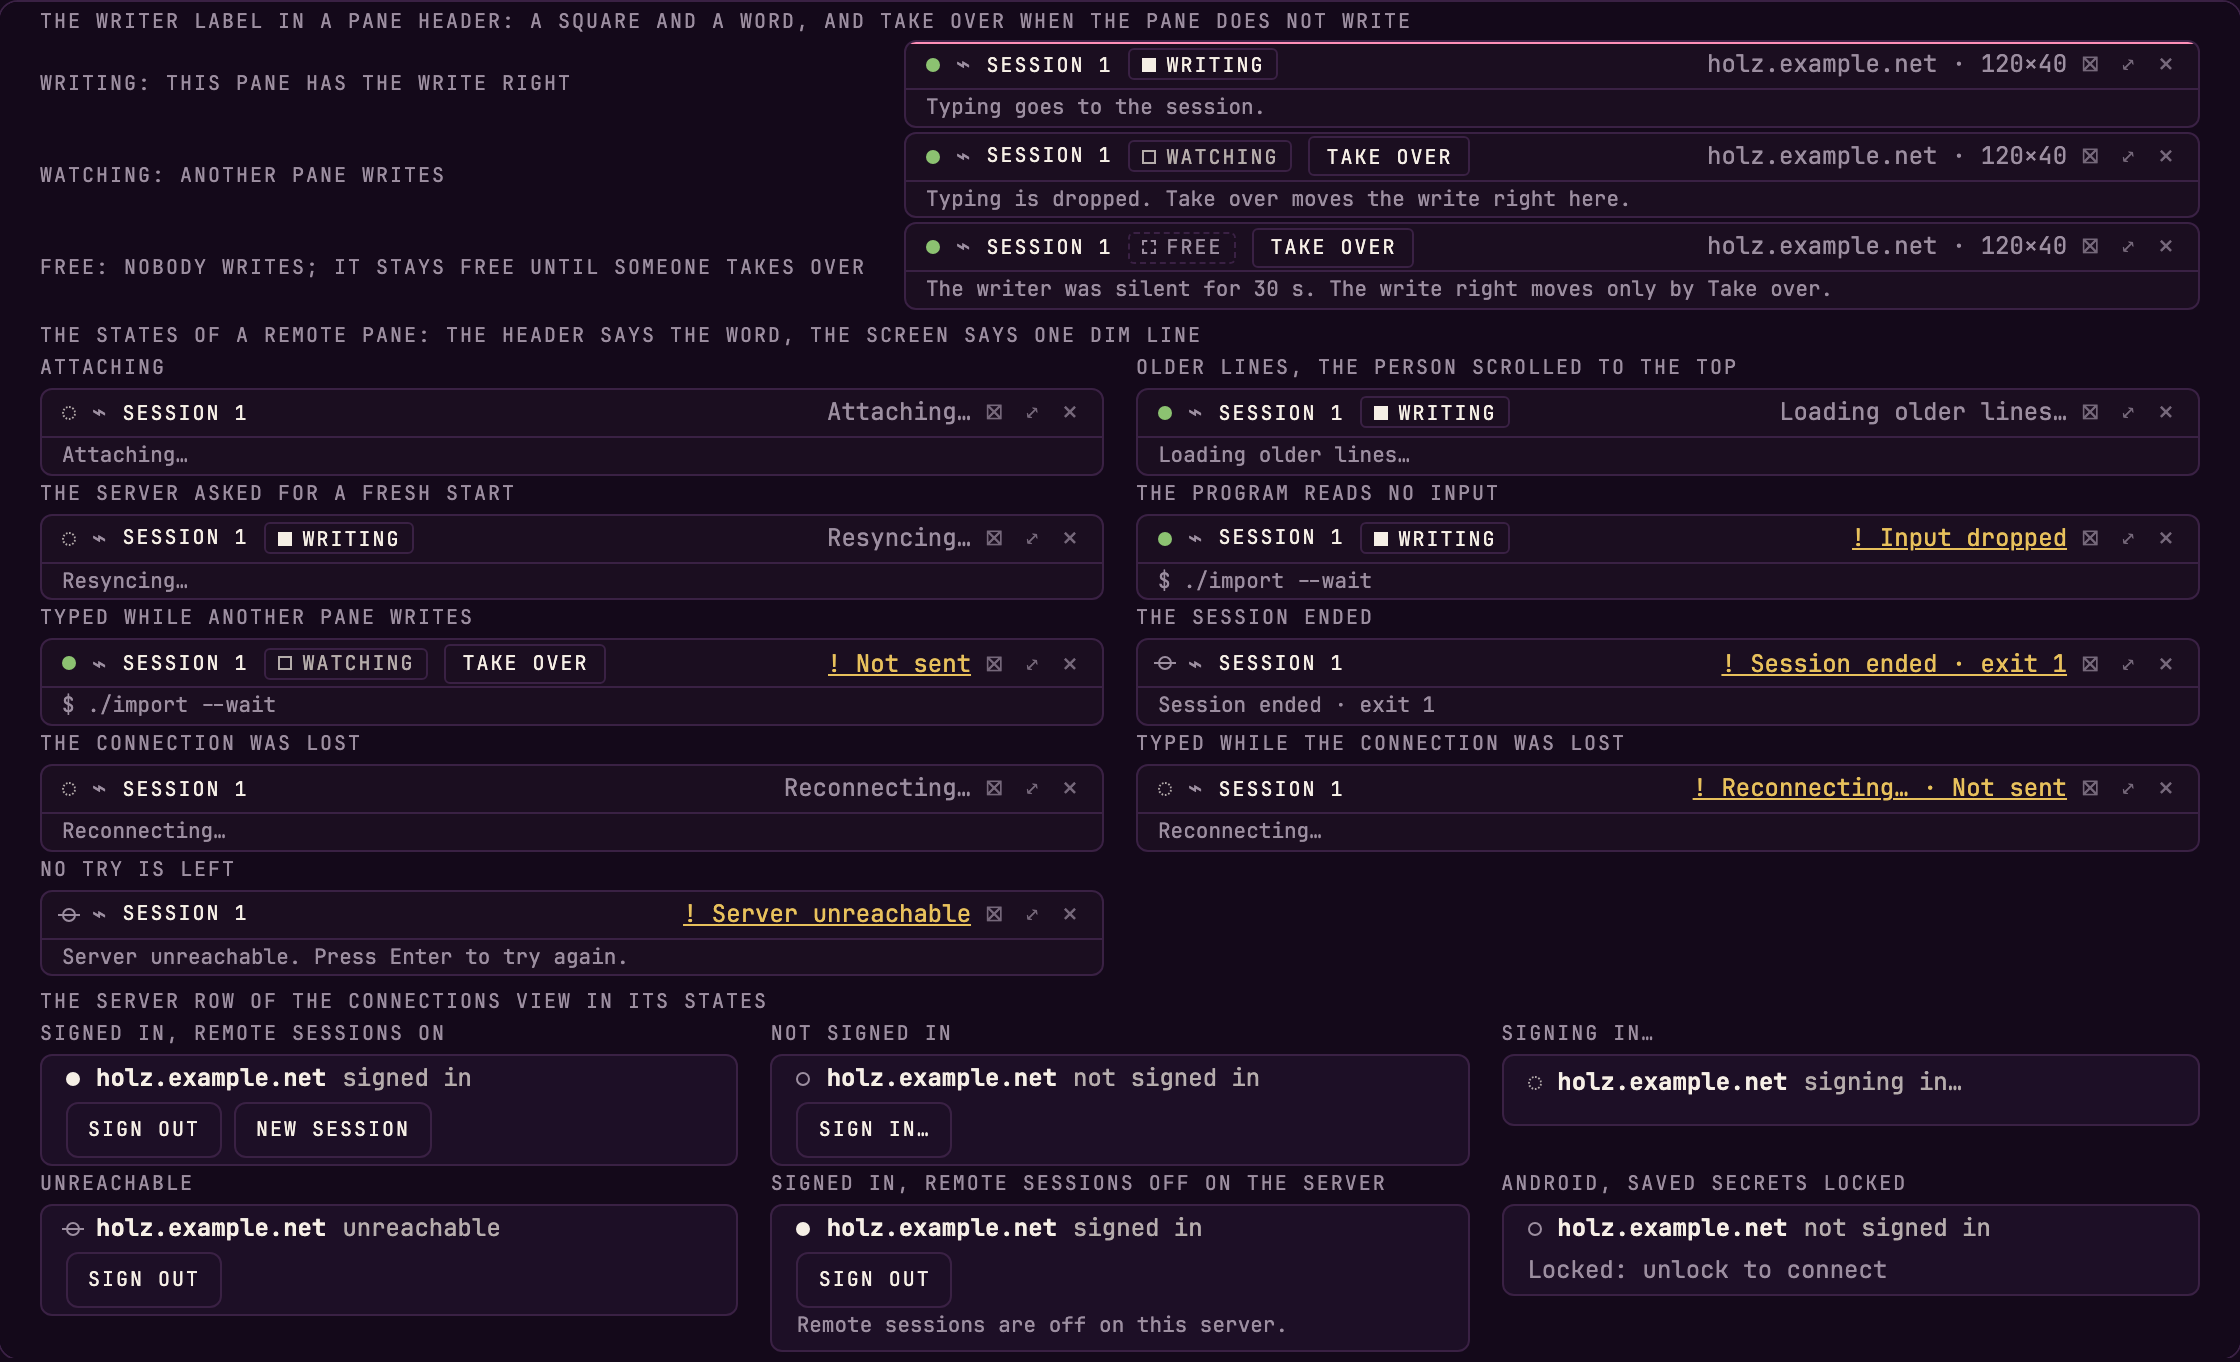
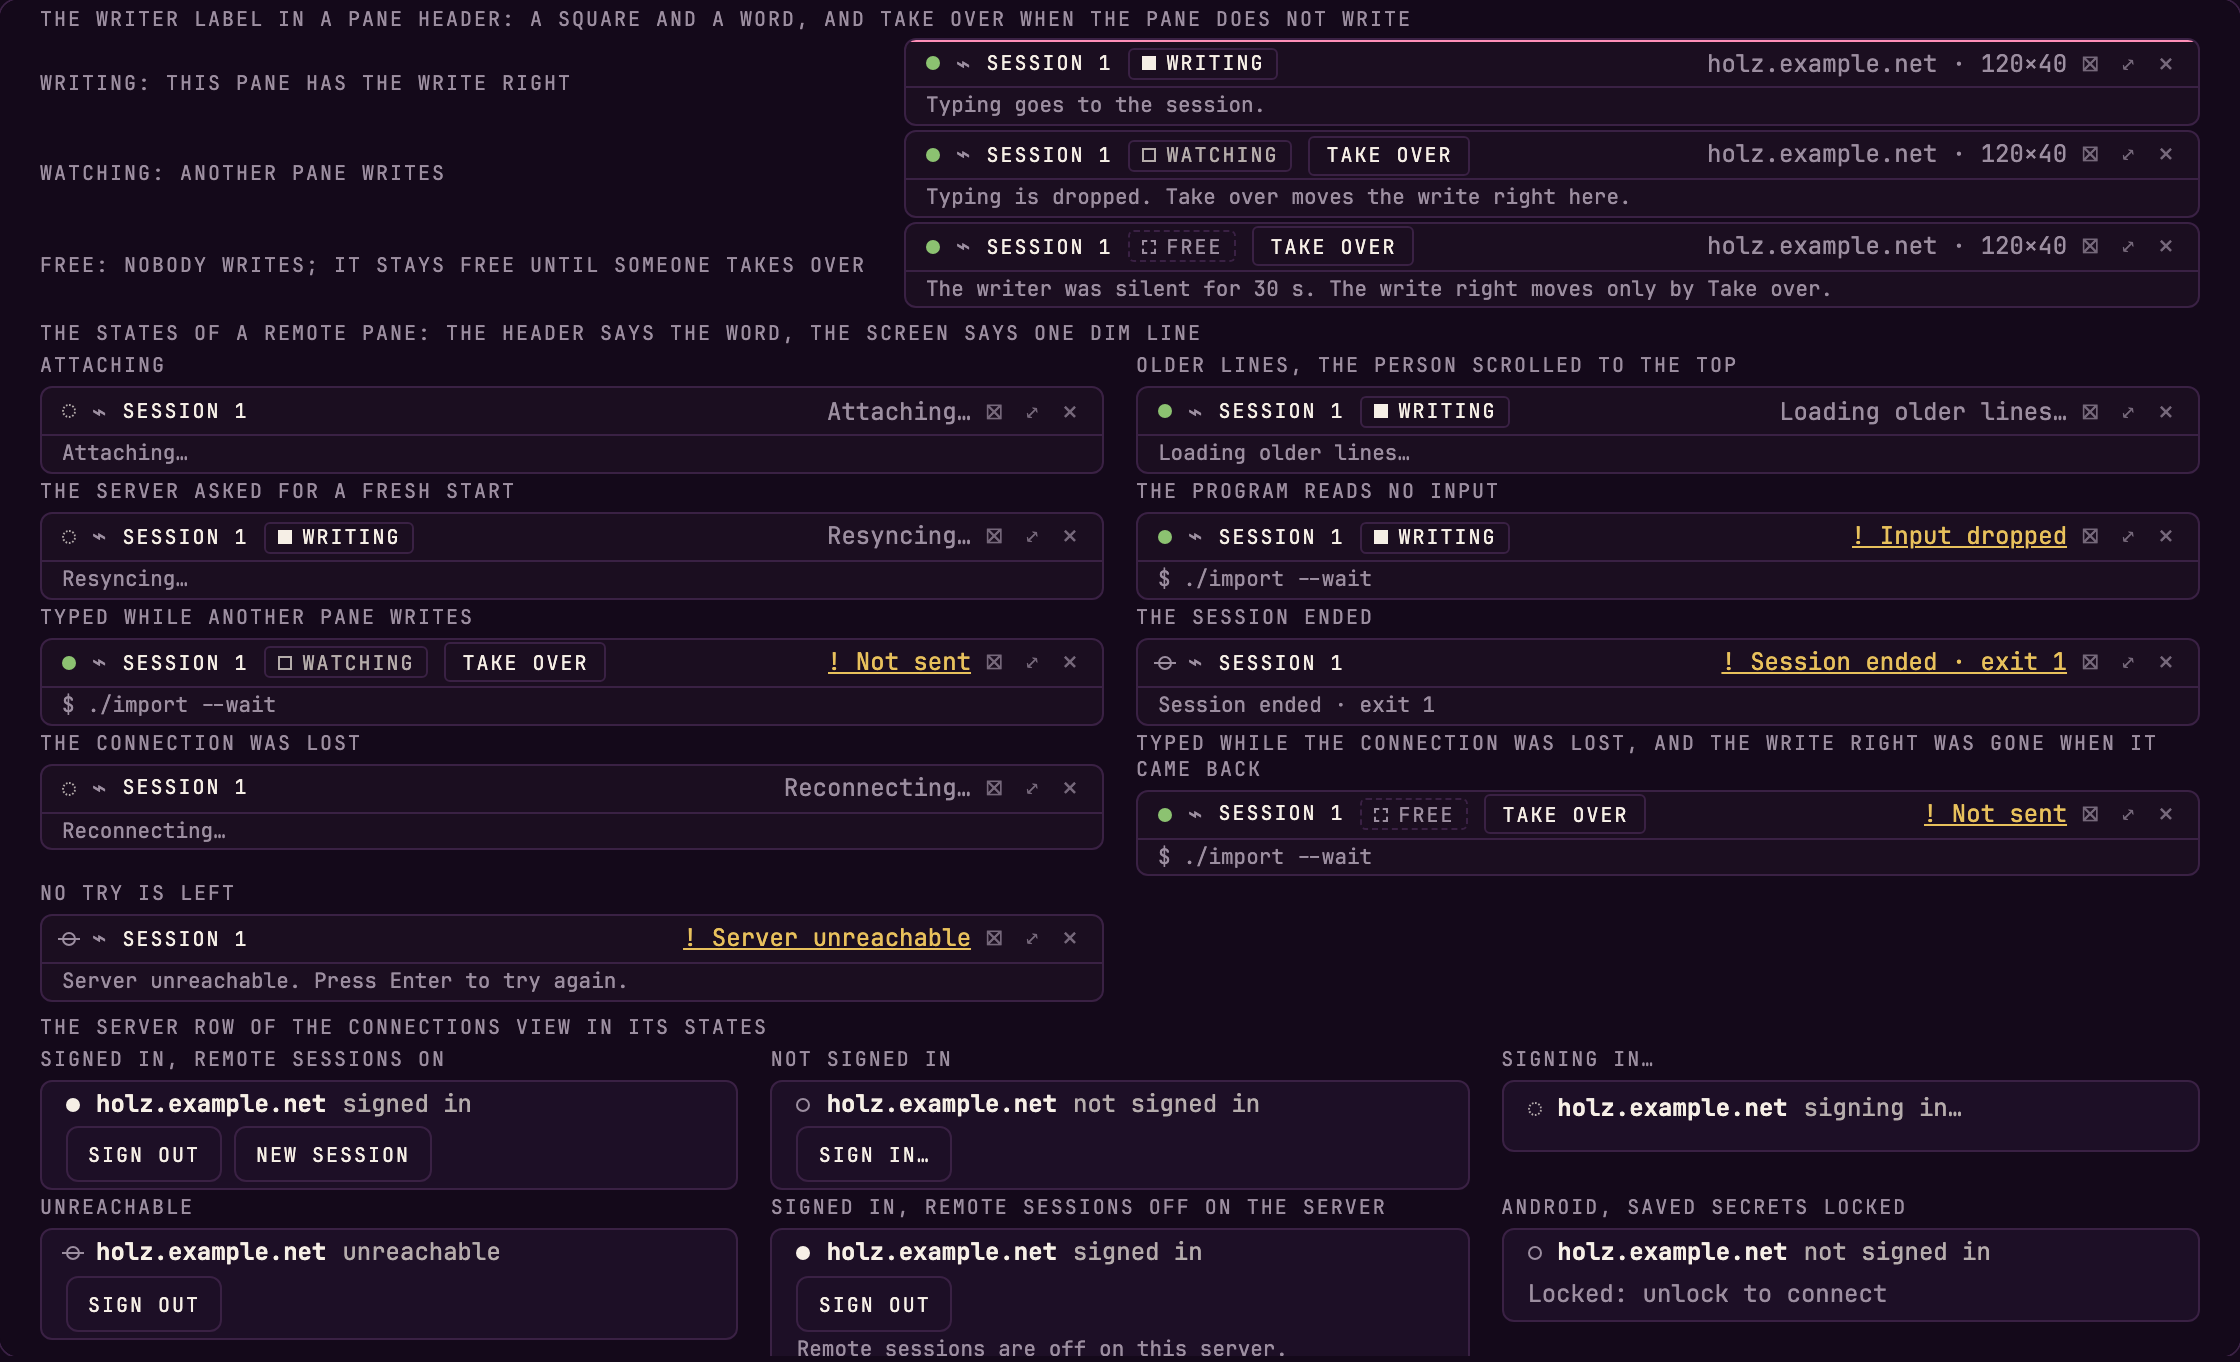
docs(12-41): the design page shows Not sent where the replay rule still says it, the picture is rendered again, and the status page says what ran where
- design page: the second Not sent cell is now "typed while the connection was lost, and the write right was gone when it came back"
  (free, Take over, the session's own line); the watcher's cell stays; only the view server-pane-states differs from the committed
  page (dump of all 83 views and rows compared)
- docs/design/server-pane-states.png rendered again from the page; the captions in the README and in design.md name both cases
- docs/status.md: what changed (revocation lists on Android, the certificate sentence, the kept and replayed input, Not sent) and how
  it was checked (two arm64 emulator images, the real server in one process, a scripted server); the system-browser hand-over and the
  device link for locked secrets are named as not built; the never-run sentence is kept and extended

Claude-Session: https://claude.ai/code/session_01LwGZpYjc6okCkNEtVxMhrw

diff --git a/docs/design/haarlinie-voll.html b/docs/design/haarlinie-voll.html
@@ -1788,7 +1788,7 @@ const svStates=[
  ['Typed while another pane writes','',[svWarn('Not sent')],'$ ./import --wait','watching'],
  ['The session ended','fl',[svWarn('Session ended · exit 1')],'Session ended · exit 1',null],
  ['The connection was lost','dr',['Reconnecting…'],'Reconnecting…',null],
- ['Typed while the connection was lost','dr',[svWarn('Reconnecting… · Not sent')],'Reconnecting…',null],
+ ['Typed while the connection was lost, and the write right was gone when it came back','',[svWarn('Not sent')],'$ ./import --wait','free'],
  ['No try is left','fl',[svWarn('Server unreachable')],'Server unreachable. Press Enter to try again.',null]
 ];
 const svViews={
@@ -1926,7 +1926,7 @@ const views=[
  ['web-people','Web: people','The people dialog, for administrators only: the table of accounts with role, state (active with a dot, disabled with a ring, locked out with ! and an underline) and last sign-in, the menu of one row (Make admin, Disable, Unlock sign-in while locked out, Reset secrets, Delete) and the layer that shows a new invitation link once with Copy link. The dialog shows no secret, terminal, command or layout of anyone.'],
  ['web-window','Web: window','The window as a browser shows it: the bar starts at the left edge, with no window buttons and no drag region. In the status line the marks reconnecting (a dotted ring), session ends in 4 min (a quarter circle) and secrets locked (a lock and the text button Unlock), and the notice Not available in the browser. A file dragged over a pane that takes it (a shell, a chat or a file browser; a preview, the monitor and a tool view take nothing and show no edge) shows a dashed edge and Drop to upload, with the upload folder once the page has seen it (the first drop of a page load shows the label alone); the edge is drawn here on the shell pane, and it is the same on a chat and on a file browser. A dropped file becomes its quoted path typed in a shell, the same path in the message of a chat, and the selected row of a file browser that lists the upload folder (a browser that lists another folder stays as it is and the status line says Uploaded to the folder). The row menu of a file in the file browser has the one entry Download; Settings has the row Notifications, here off, on and blocked by the browser.'],
   ['server-sessions','Server sessions','The Connections view with the holzWave server above the saved connections (docs/design.md 6.34): its name, its address in mono, the state dot with its word, Sign out and New session; under it the running sessions with the program title, the directory, the size, the start, how many are attached, free or held, Attach and End; the help line under the row. Behind the dialog a local pane and a remote pane whose header says WRITING. With the Browser platform the row is This server, with no sign-in and no sign-out.'],
- ['server-pane-states','Server pane states','The header of a remote pane (6.34): WRITING with a filled square, WATCHING with a hollow one and FREE with a dashed one, and Take over after the label when the pane does not write. Then the eight states of the pane (Not sent shown for a pane that watches and after Reconnecting…), each a dot shape and a word in the context slot and, except for Input dropped and Not sent, one dim line on the screen, and the server row in its states: signed in, not signed in, signing in, unreachable, remote sessions off on the server, and the Android row while the secrets are locked.'],
+ ['server-pane-states','Server pane states','The header of a remote pane (6.34): WRITING with a filled square, WATCHING with a hollow one and FREE with a dashed one, and Take over after the label when the pane does not write. Then the eight states of the pane (Not sent shown for a pane that watches, and for a pane whose write right was gone when its connection came back), each a dot shape and a word in the context slot and, except for Input dropped and Not sent, one dim line on the screen, and the server row in its states: signed in, not signed in, signing in, unreachable, remote sessions off on the server, and the Android row while the secrets are locked.'],
  ['device-authorize','Device sign-in','Signing in to a server from the app (docs/design.md 6.35): step 1 asks for the address of the server (an address that is not https is refused), step 2 shows the code while the browser page opens; and the page Authorize device of the browser with the device, the platform, the address, the time and the code to compare, Deny and Approve. Under them the states of step 2 (waiting, approved, denied, expired, too many, unreachable, a certificate that is not accepted, off on the server) and the three results of the page. Each state is a dot shape or the mark ! besides its words.'],
  ['device-lists','Device lists','The Devices group of the Account dialog (a revoke that asks a second time, and the empty list), the list of devices of an administrator in the People dialog with the column Owner, and the Device access group with the two switches Sync target and Remote sessions (docs/design.md 6.35): the word ON or OFF is inside the knob, and a switch that the server configuration turned off for good is OFF, dashed, not operable, with its line.'],
  ['links','Links','Links the program marked, in a shell pane (docs/design.md 6.31): two at rest with a dotted underline, one under the pointer with a solid underline and its target in the LINK segment of the status line (cut in the middle) with the notice beside it that says why a click could not open it (the host\u2019s own sentence, here an opener that cannot be started), one with the open gesture held in solid rose, one in text the program underlined itself, and an address with a scheme that is not allowed, which stays plain text. The pointer cursor is the system\u2019s and is not drawn.'],

diff --git a/docs/design.md b/docs/design.md
@@ -292,7 +292,7 @@ Each view is a state of the same window. Overlays use the 24 px radius and the s
 | Web: people | ![](design/web-people.png) | the people dialog (6.29): the table of accounts with state marks, the menu of one row and the invitation link shown once |
 | Web: window | ![](design/web-window.png) | the window as the browser shows it (6.30): no window buttons, the marks of the status line, the upload target, the `Download` row menu and the Notifications setting |
 | Server sessions | ![](design/server-sessions.png) | the Connections view with the server row above the saved connections (6.34): signed in, `Sign out` and `New session`, the help line, two sessions with their size, start, attached count, `held` or `free`, `Attach` and `End`; behind it a local pane and a remote pane whose header says `WRITING`; with the Browser platform the row is `This server` |
-| Server pane states | ![](design/server-pane-states.png) | the writer label in a pane header (6.34): `WRITING` with a filled square, `WATCHING` with a hollow one and `FREE` with a dashed one, `Take over` after the last two; the eight states of the pane, with `Not sent` shown for a watcher and after `Reconnecting…`; the server row in its states |
+| Server pane states | ![](design/server-pane-states.png) | the writer label in a pane header (6.34): `WRITING` with a filled square, `WATCHING` with a hollow one and `FREE` with a dashed one, `Take over` after the last two; the eight states of the pane, with `Not sent` shown for a watcher and for a pane whose write right was gone when its connection came back; the server row in its states |
 | Device sign-in | ![](design/device-authorize.png) | the step in the app and the page `Authorize device` (6.35), with the states of the second screen (waiting, approved, denied, expired, too many, unreachable, a certificate that is not accepted, off on the server) and the three results of the page |
 | Device lists | ![](design/device-lists.png) | the Devices group of the Account dialog, the list of devices of an administrator with the column `Owner`, and the group `Device access` with its two switches, one of them turned off by the configuration (6.35) |
 | Links | ![](design/links.png) | links in the output of a shell pane (6.31): two at rest with a dotted underline, one under the pointer with a solid underline and its target in the `LINK` segment of the status line, with the notice beside it that says why a click could not open it, one with the open gesture held in rose, one in text the program underlined itself, and an address with a scheme that is not allowed, which stays plain text |

diff --git a/docs/status.md b/docs/status.md
@@ -127,7 +127,7 @@ real network, with a real passkey or single sign-on approving a device, behind a
 two real people, on Android (the hand-back from the system browser, the secret vault, Doze and the end of a background app), or
 across a server restart under a real workload. A server restart ends every remote session, and a session also ends after the
 server's idle limit (`workers.idle_timeout`, a day by default) with no tab and no app of the person attached. Remote sessions
-share the 64 panes and the 8 sockets of a person with the browser window. A device syncs with one target at a time. In the
+share the 64 panes and the 8 sockets of a person with the browser window. A device syncs with one target at a time. Since the first of those texts the following changed. On Android the sign-in fetches the revocation lists that a certificate names, and a certificate that is not accepted ends the sign-in and the device link with a sentence of its own. The list fetch was checked on two arm64 emulator images (Android 12 and the newest Android; 23 November 2026) against a public certificate that has a revocation list and no OCSP address, and the certificate sentence against a scripted server; the opening of the device link in the system's browser, and a device link for a person whose secrets stay locked, are not built yet and are still open. A remote pane now says `Not sent` for every key it could not send, keeps its write right for 30 seconds after a lost connection, and sends what was typed meanwhile (at most 64 KiB, at most 30 seconds old, held only in memory and wiped when dropped) once, in order, when the same writer is back; when the right moved or the time ran out, the header says `Not sent`. That was checked against the real server in one process over the loopback address and against a scripted server. None of it was run on a real phone, on a real desktop against a real server over a real network, behind a real reverse proxy, with a public certificate on a phone, or with two real people. In the
 browser window all tabs of a person share the pane of a session and one right to write, and a tab left open keeps that right
 until somebody presses `Take over`; on a desktop or a phone each device draws a session itself.
 

diff --git a/README.md b/README.md
@@ -150,7 +150,7 @@ Drawings of the design for the server as a sync target and for terminal sessions
 
 | The server row and its sessions | The writer label and the states of a remote pane | The sessions on a phone |
 |---|---|---|
-| ![Drawing of the design: the Connections view with the server above the saved connections, its two sessions with Attach and End, and behind it a remote pane whose header says WRITING](docs/design/server-sessions.png) | ![Drawing of the design: the writer label WRITING, WATCHING and FREE as a square and a word with Take over, the eight states of a remote pane, with Not sent shown for a watcher and after Reconnecting…, and the server row in its states](docs/design/server-pane-states.png) | ![Drawing of the design: the phone's sheet with the row Connections…, the sessions sheet of the Connections view, and a remote pane that watches, with the label WATCHING and Take over](docs/design/server-sessions-phone.png) |
+| ![Drawing of the design: the Connections view with the server above the saved connections, its two sessions with Attach and End, and behind it a remote pane whose header says WRITING](docs/design/server-sessions.png) | ![Drawing of the design: the writer label WRITING, WATCHING and FREE as a square and a word with Take over, the eight states of a remote pane, with Not sent shown for a watcher and for a pane whose write right was gone when its connection came back, and the server row in its states](docs/design/server-pane-states.png) | ![Drawing of the design: the phone's sheet with the row Connections…, the sessions sheet of the Connections view, and a remote pane that watches, with the label WATCHING and Take over](docs/design/server-sessions-phone.png) |
 
 | Signing in to a server | Devices and the two switches | The target of the sync |
 |---|---|---|
